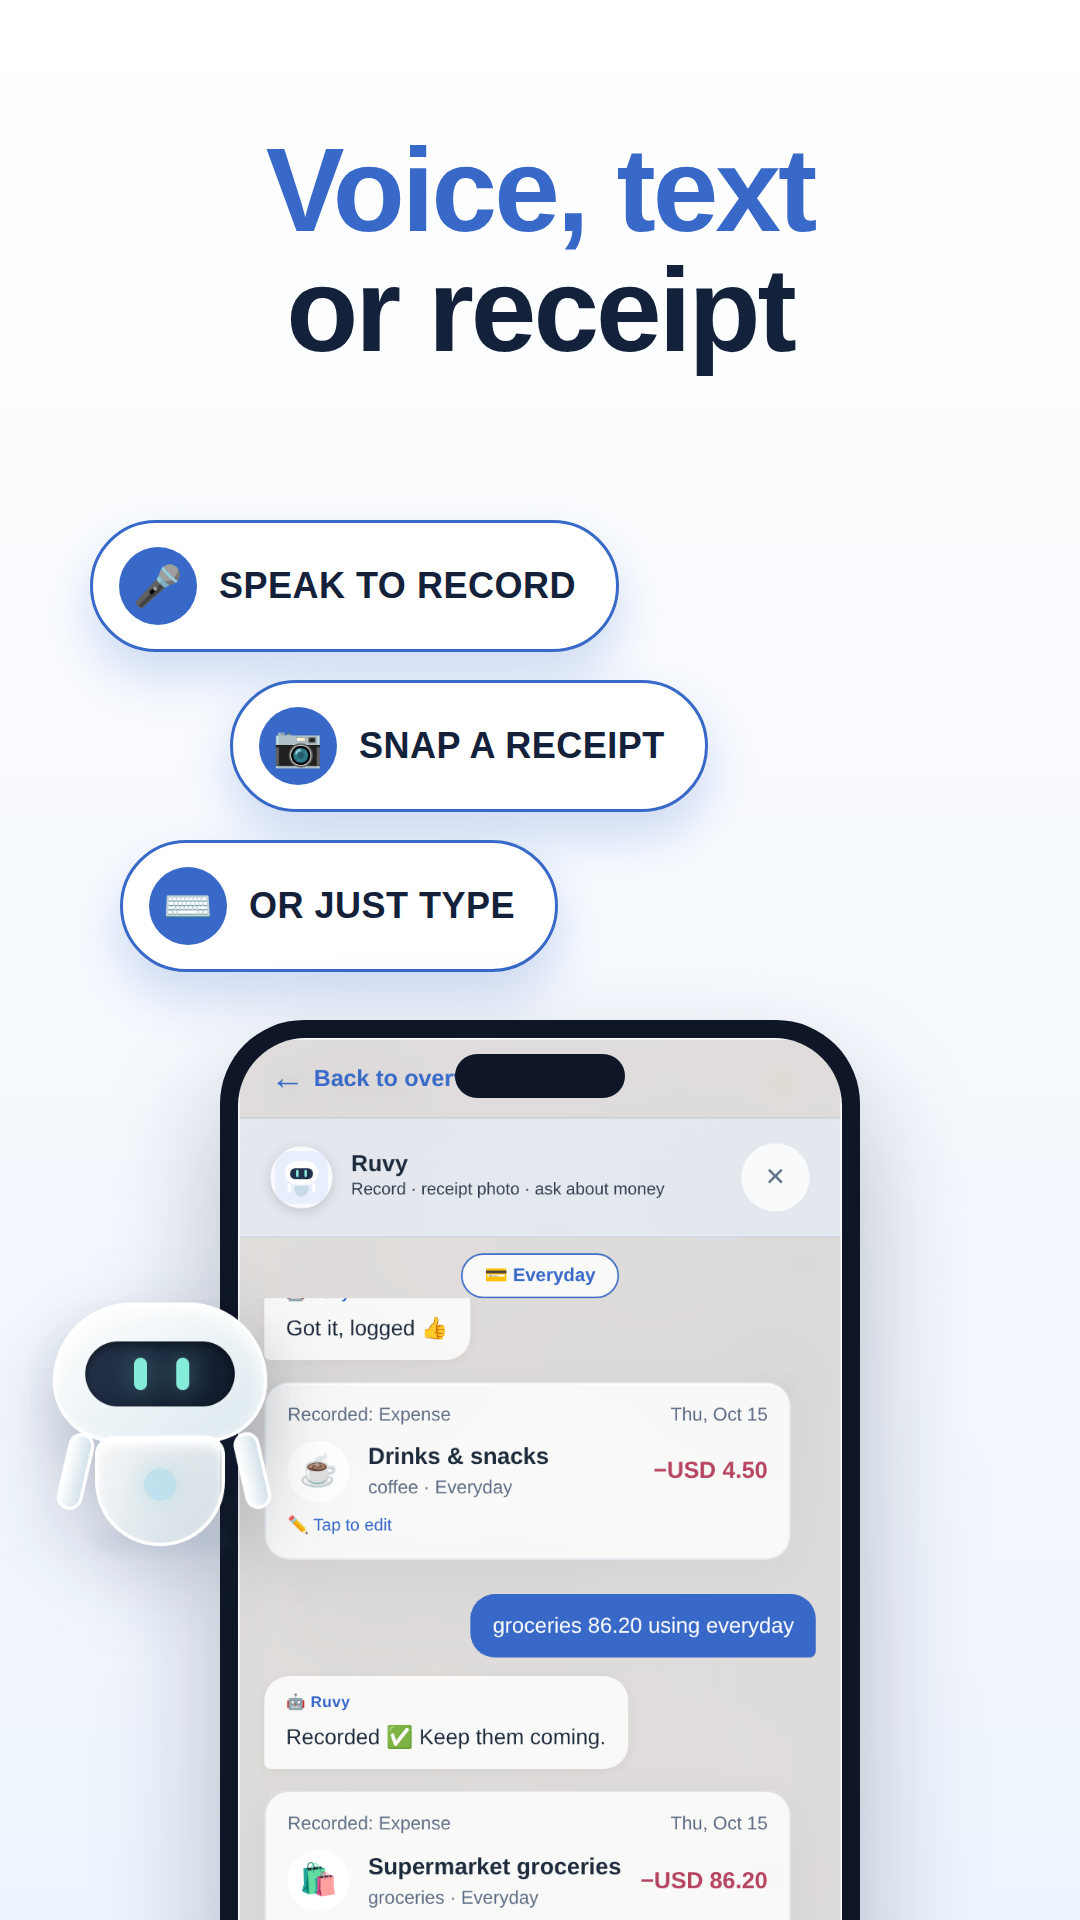
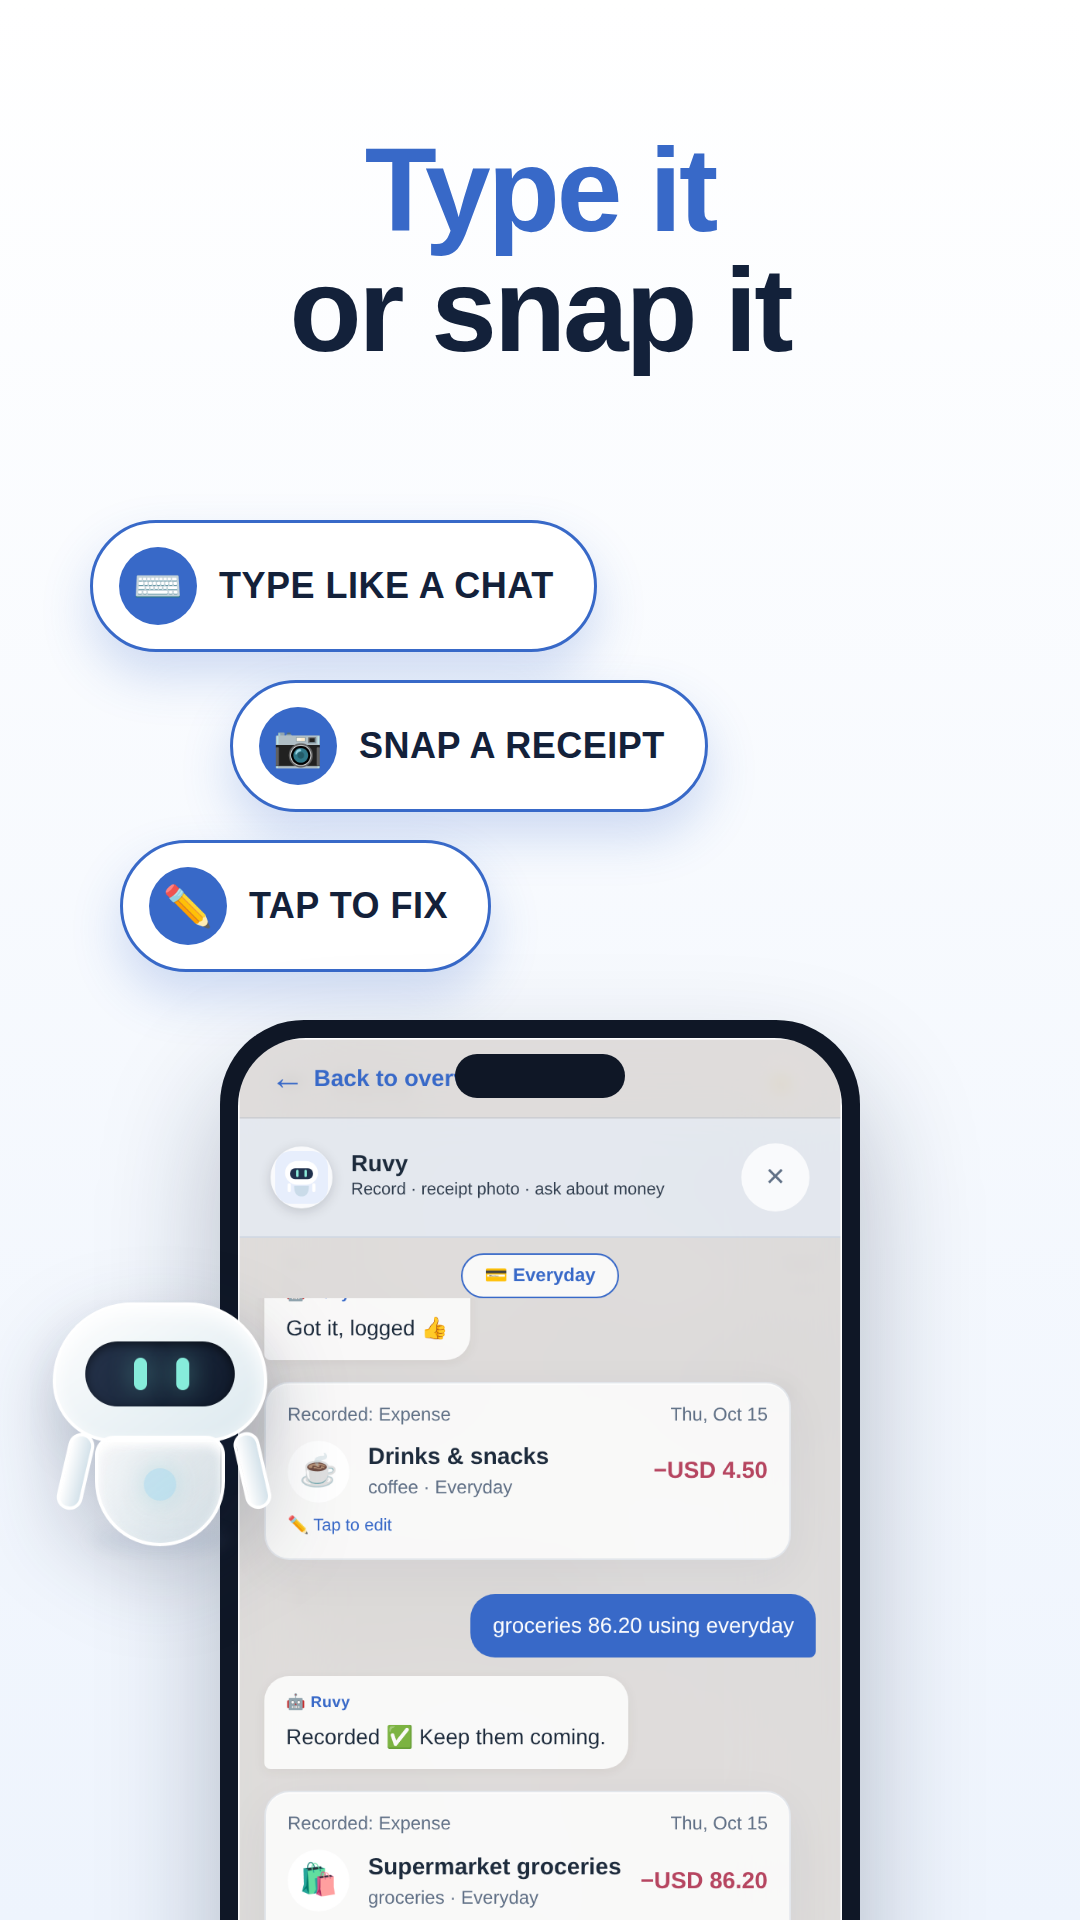
Bahan unggah Google Play Ruvy (English): teks listing, 5 gambar iklan, ikon, panduan
- store-assets/ruvy/en/listing.json & listing.md ditulis ulang (fokus catat lewat chat + Tanya AI)
- Slide 3 tanpa klaim suara (mic belum ada di app Android)
- Folder UPLOAD-GOOGLE-PLAY-RUVY siap dipakai di Play Console

Claude-Session: https://claude.ai/code/session_0118MZMPGEf1Ax3pYUSjSeJN

diff --git a/design/ruvy/ads-en/ad.html b/design/ruvy/ads-en/ad.html
@@ -41,13 +41,13 @@ const S={
    <div class="wallet" style="left:90px;top:1150px;transform:rotate(-3deg)"><div class="t">Tokyo trip<span>JPY</span></div><div class="v">¥40,950</div></div>
    ${rec(40,1460,620,'☕','Drinks & snacks','latte · Everyday','−$5.40',false,'Expense','Wed, Oct 14',-3)}`},
  '2':{bg:'bg-b',html:`${P('chat',220,-420,640,0)}
-   <div class="bubble" style="right:90px;top:1060px">coffee 4.50 🎤</div>
+   <div class="bubble" style="right:90px;top:1060px">coffee 4.50</div>
    ${rec(80,1150,620,'☕','Drinks & snacks','coffee · Everyday','−$4.50',false,'Expense','Thu, Oct 15',-2)}
    <div class="h center" style="top:1470px">Just type it.<br><span class="b">Ruvy logs it.</span></div>`},
- '3':{bg:'bg-c',html:`<div class="h center" style="top:130px"><span class="b">Voice, text</span><br>or receipt</div>
-   <div class="pill" style="left:90px;top:520px"><span class="i">🎤</span>Speak to record</div>
+ '3':{bg:'bg-c',html:`<div class="h center" style="top:130px"><span class="b">Type it</span><br>or snap it</div>
+   <div class="pill" style="left:90px;top:520px"><span class="i">⌨</span>Type like a chat</div>
    <div class="pill" style="left:230px;top:680px"><span class="i">📷</span>Snap a receipt</div>
-   <div class="pill" style="left:120px;top:840px"><span class="i">⌨</span>Or just type</div>
+   <div class="pill" style="left:120px;top:840px"><span class="i">✏</span>Tap to fix</div>
    ${P('chat',220,1020,640,0)}
    <img class="robot" src="robot.png" style="left:30px;top:1300px;width:260px;filter:drop-shadow(0 30px 40px rgba(19,33,58,.25))">`},
  '4':{bg:'bg-a',html:`<div class="h" style="top:150px">Every wallet,<br><span class="b">every currency.</span></div>

diff --git a/store-assets/ruvy/en/listing.md b/store-assets/ruvy/en/listing.md
@@ -1,32 +1,56 @@
+# Google Play listing — English (default language)
+
+Title (23/30):
 Ruvy - AI Money Tracker
 
-Track money and manage wallets in English or Bahasa Indonesia.
+Short description (78/80):
+Track spending by chatting. Wallets, any currency, AI money tips. Try it free.
 
-Ruvy - AI Money Tracker helps you record your money and understand spending habits with a simple, calm interface.
+Full description (2222/4000):
 
-Ruvy AI is temporarily unavailable. Money recording and wallet tools remain available.
+Ruvy makes tracking money as easy as sending a chat.
 
-WALLETS AND CURRENCIES
-Create separate wallets for everyday life or travel. Choose a currency for each wallet, including USD, EUR, GBP, IDR, SGD, MYR and others. Balances, income, expenses, debts and goals use the selected wallet currency. Ruvy does not automatically convert currencies or combine balances in different currencies.
+Type "coffee 4.50" or "salary 3200" and Ruvy records it instantly: amount, category, date and wallet. No long forms, no spreadsheets.
 
-RECORD AND REVIEW
-• Record income and expenses using text or a form.
-• Read receipt photos with OCR and review the results before saving.
-• Find entries with search, categories and date filters.
-• Track debts, receivables, recurring bills and savings goals.
-• Review summaries and reports by wallet.
-• Export and restore backups of your records.
+JUST TYPE IT
+• Write entries the way you talk: "groceries 86.20", "taxi 12 yesterday", "rent 900 using bank account"
+• Ruvy picks the category and the wallet for you
+• Every entry appears as a card. Tap it to fix the amount, category, date or wallet
+• Recording works on every plan, including the free trial, and does not use AI credits
 
-MEET RUVY AI
-When Ruvy AI is available, an active paid plan allows questions about spending patterns, budgeting or savings goals. AI uses relevant summaries from your selected wallet. It is not individually trained on your records and does not remember previous conversations. Responses can be incorrect, so check important figures. Usage limit: 30 questions per account per day.
+ASK RUVY ANYTHING (AI)
+• "Where am I overspending this month?"
+• "Can I save $500 this month?"
+• "Compare this month with last month"
+Ruvy AI reads a summary of your own records and answers in seconds with practical tips. Available on paid plans, up to 30 questions per day. AI answers can be wrong, so double-check important numbers.
 
-LANGUAGE AND ACCOUNT
-Choose English or Bahasa Indonesia. Use the same account to sync records across devices. An internet connection is needed to update cloud records.
+EVERY WALLET, EVERY CURRENCY
+• Separate wallets for your bank, e-wallet, cash, savings or a trip abroad
+• Each wallet keeps its own currency: USD, EUR, GBP, SGD, MYR, JPY, IDR and more
+• No hidden exchange-rate guessing. Balances are shown per wallet
+• Move money between wallets without counting it as spending
 
-ACCESS AND PAYMENTS
-Try recording features free for 2 days from registration. AI is not included in the trial. After access expires, choose a plan to continue. The 7-day pass is a one-time payment. Monthly and yearly Google Play subscriptions automatically renew until cancelled. Prices and terms are shown before purchase. Wallet currency does not change your Google Play billing currency.
+SNAP A RECEIPT
+Take a photo of a receipt and Ruvy reads the total. Review it before saving. Available on paid plans.
 
-Ruvy was previously called BerUang. Your existing account and records continue to work.
+PLAN AND REVIEW
+• Monthly reports: income, expenses, biggest categories, month-to-month comparison
+• Savings goals, debts and receivables, recurring bills
+• Search and filter every transaction
+• English and Bahasa Indonesia
+
+YOUR DATA, YOUR CONTROL
+• Sign in on any device with the same account and your records sync through the cloud
+• Export a backup any time
+• Request account and data deletion from the app or support
+
+PLANS
+• Free 2-day trial for recording (AI and receipt photos not included)
+• 7-day pass: one-time payment
+• Monthly and yearly subscriptions renew automatically through Google Play until cancelled. Manage or cancel any time in Google Play
+Prices are shown in your local currency by Google Play before purchase.
+
+Ruvy was previously called BerUang. Existing accounts and records keep working.
 
 Support: info@berstock.id
 Privacy: https://berstock.id/privacy-en.html
